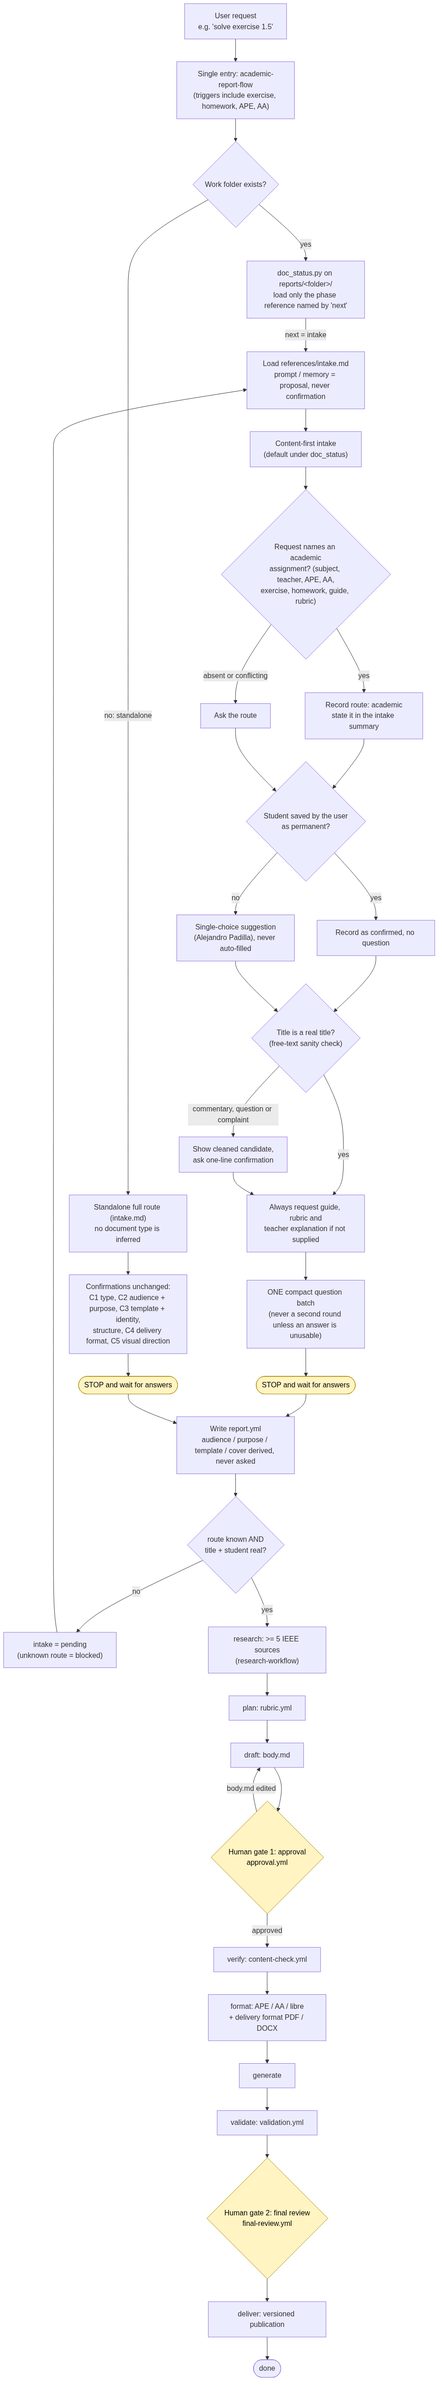
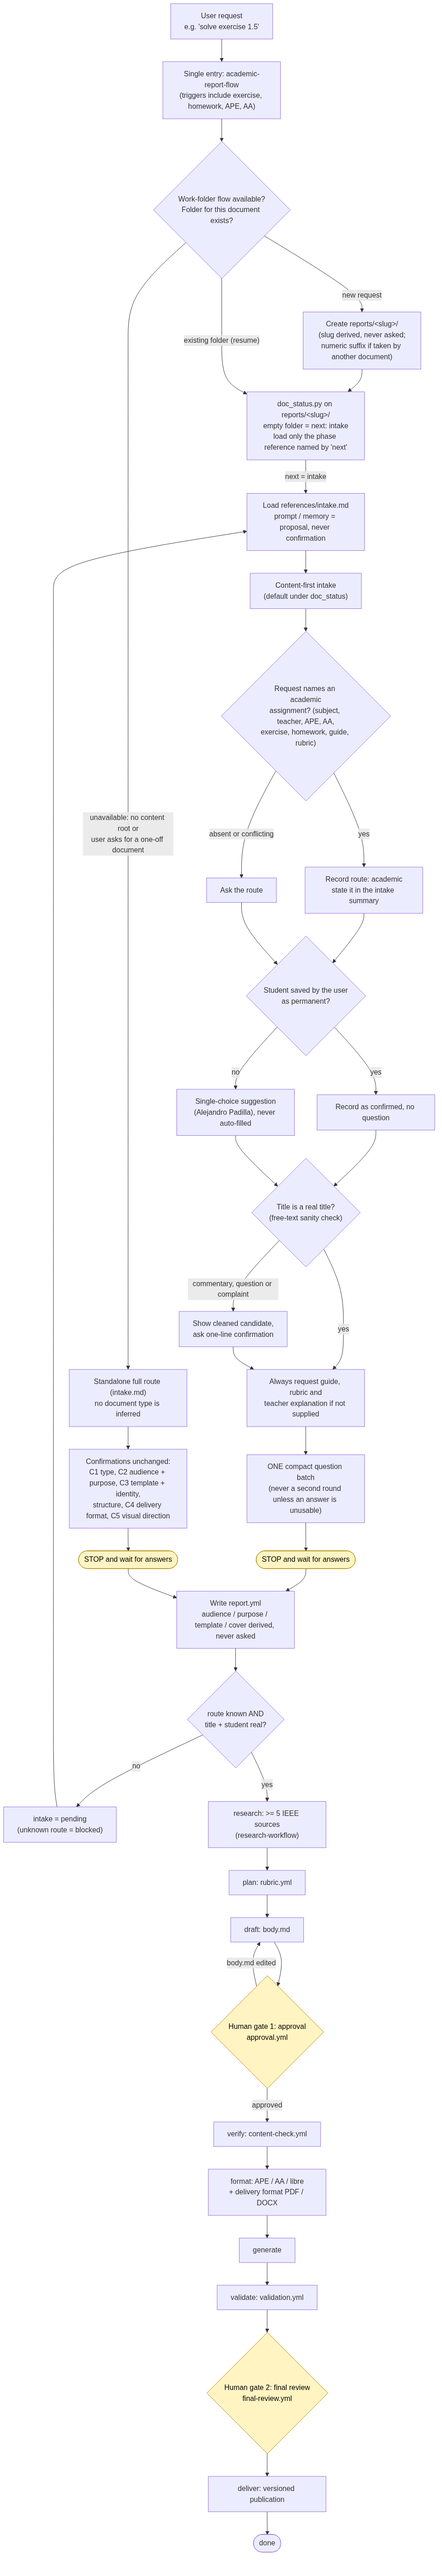
fix(skills): create the work folder for new requests so content-first intake applies

diff --git a/tests/skills/test_document_workflow_contract.py b/tests/skills/test_document_workflow_contract.py
@@ -845,6 +845,50 @@ def test_type_prohibition_names_the_content_first_route_exception() -> None:
     assert "content-first" in section and "references/intake.md" in section
 
 
+def _flat(path: Path) -> str:
+    return re.sub(r"\s+", " ", re.sub(r"[*`]", "", read(path))).lower()
+
+
+def test_new_request_creates_the_work_folder_before_doc_status() -> None:
+    """Task 7: a fresh request has no folder yet; the entry rule creates it first."""
+    skill = _flat(SKILL_MD)
+    entry = skill[skill.index("entry rule:") :].split(" loop:")[0]
+    assert re.search(r"new request[^;]*creates? the work folder[^;]*before[^;]*doc_status", entry), (
+        "SKILL.md entry rule must create the work folder for a new request before doc_status"
+    )
+    assert "reports/<slug>/" in entry
+    assert "existing" in entry and "resum" in entry, "an existing folder is resumed"
+    assert "without a work folder" not in skill, (
+        "SKILL.md must not route a missing work folder to the standalone full route"
+    )
+
+
+def test_standalone_full_route_is_limited_to_an_unavailable_work_folder_flow() -> None:
+    skill = _flat(SKILL_MD)
+    entry = skill[skill.index("entry rule:") :].split(" loop:")[0]
+    assert re.search(r"standalone full route.{0,60}applies only when the work-folder flow is (unavailable|not available)", entry), (
+        "the standalone full route applies only when the work-folder flow is unavailable"
+    )
+
+
+def test_routing_loop_and_intake_agree_on_the_new_request_entry() -> None:
+    routing = _flat(SKILL_ROOT / "references" / "routing-loop.md")
+    intake = _flat(SKILL_ROOT / "references" / "intake.md")
+    for name, text in (("routing-loop.md", routing), ("intake.md", intake)):
+        assert re.search(r"new request[^.]*creates? [^.]*reports/<slug>/", text), (
+            f"{name} must state that a new request creates reports/<slug>/ first"
+        )
+        assert "without a work folder" not in text and "no work folder" not in text, (
+            f"{name} must not route a missing work folder to the standalone full route"
+        )
+        assert re.search(r"unavailable|not available", text), (
+            f"{name} must limit the standalone route to an unavailable work-folder flow"
+        )
+    assert "never ask" in routing and "slug" in routing, "the slug is derived, never asked"
+    assert re.search(r"numeric suffix", routing + intake)
+    assert "folder in the intake summary" in intake
+
+
 def test_skill_body_stays_within_the_token_budget() -> None:
     body = read(SKILL_MD).split("---", 2)[2]
     assert len(body.split()) <= 1000

diff --git a/skills/academic-report-flow/SKILL.md b/skills/academic-report-flow/SKILL.md
@@ -12,11 +12,11 @@ metadata:
 
 Use for creating, adapting, reviewing, exporting, resuming, or advancing a structured academic, project, professional, business, technical, PDF, or DOCX document. PDF or DOCX is a format signal only. The user chooses the document type; never infer it from format, prompt, files, or history.
 
-Entry rule: when a work folder exists, run `doc_status.py` first on `$REPORT_CONTENT_ROOT/reports/<work-folder>/` and load only the current phase reference; without a work folder, run the standalone full route (`references/intake.md`), then the `next` token. Loop: `doc_status -> next -> reference -> delegate -> re-run`. See `references/routing-loop.md`.
+Entry rule: a new request creates the work folder `$REPORT_CONTENT_ROOT/reports/<slug>/` before `doc_status.py` (empty folder -> `next: intake`); an existing folder for the same document is resumed. Run `doc_status.py` first and load only the current phase reference. The standalone full route (`references/intake.md`) applies only when the work-folder flow is unavailable. Loop: `doc_status -> next -> reference -> delegate -> re-run`. See `references/routing-loop.md`.
 
 ### Mandatory Intake
 
-Load `references/intake.md` for the `intake` phase and on every standalone run. It owns the `report.yml` record (`route:`, `output:`, `template:`, top-level `cover:`, `metadata:` fields) and the content-first minimum. The Document Contract is a data record and does not authorize generation. The single confirmation gate is post-preview and lives in `academic-report-flow/references/approval.md`; intake never asks for approval.
+Load `references/intake.md` for the `intake` phase and on every standalone run (work-folder flow unavailable). It owns the `report.yml` record (`route:`, `output:`, `template:`, top-level `cover:`, `metadata:` fields) and the content-first minimum. The Document Contract is a data record and does not authorize generation. The single confirmation gate is post-preview and lives in `academic-report-flow/references/approval.md`; intake never asks for approval.
 
 ### Prohibition On Inferring Document Type
 

diff --git a/skills/academic-report-flow/references/intake.md b/skills/academic-report-flow/references/intake.md
@@ -3,8 +3,9 @@
 Executor: academic-report-flow
 Artifact: `reports/<wf>/report.yml`
 
-Load this reference when `doc_status` returns `next: intake`, and on every execution of
-the standalone full route (no work folder), before designing, structuring, drafting, or generating anything.
+Load this reference when `doc_status` returns `next: intake` (a new request creates
+`reports/<slug>/` first, so it starts here), and on every execution of the standalone
+full route (only when the work-folder flow is unavailable), before designing, structuring, drafting, or generating anything.
 This skill executes the phase itself. Intake turns a request into the one
 machine-readable record the whole route derives from: `reports/<wf>/report.yml`.
 
@@ -14,7 +15,10 @@ and treat nothing from them as confirmed data.
 
 ## Content-first intake
 
-Default when a work folder is driven by `doc_status`. Ask only the content-first
+Default for every new request: the request creates the work folder
+`reports/<slug>/` first (lowercase ASCII kebab-case from the subject and assignment,
+numeric suffix if the folder belongs to a different document, never asked) and
+`doc_status` drives it; state the folder in the intake summary. Ask only the content-first
 minimum: route, title, student, the teacher's guide and rubric material, teacher
 explanation.
 
@@ -74,7 +78,7 @@ explanation.
 
 ## Full-route confirmations
 
-Standalone run with no work folder. Stop after asking: do not pre-build, do not
+Standalone run, only when the work-folder flow is unavailable. Stop after asking: do not pre-build, do not
 draft "while waiting", do not produce a provisional structure.
 
 ### Confirmation 1 — Document type

diff --git a/odd/tasks/academic-report-flow.md b/odd/tasks/academic-report-flow.md
@@ -47,6 +47,11 @@ As-is flow: `docs/diagrams/intake-flow-current.mmd`.
 - [x] 6. (User decision) Install the unified skill into Claude/Codex/OpenCode/Pi runtimes and
       remove the two old skill dirs there.
 
+- [x] 7. Fix fresh-request entry gap (found in live test 2026-10-01): a new request with no work folder fell
+      into the standalone full route (asks document type), so content-first never applied. New request ->
+      create `reports/<slug>/` under the content root, then `doc_status` (empty folder -> `next: intake`).
+      Full route only when the work-folder flow is unavailable. Test-first; update to-be diagram.
+
 ## Evidence
 
 (commit ids recorded per task)
@@ -81,3 +86,4 @@ As-is flow: `docs/diagrams/intake-flow-current.mmd`.
   symlink moved to the trash (both were older than origin/main, no unique edits). Dotfiles untouched.
   `~/.pi/gentle-ai/skill-runtime/course-deliverables/academic-report-builder` left in place (no longer linked).
   Pi needs `/reload` to pick the change up.
+- Task 7: RED 3 failed / 1682 passed (new entry-rule contract tests); GREEN `tests/skills tools` 1685 passed, 0 failed. SKILL.md body 997 tokens. Commit: see git log (`fix(skills): create the work folder for new requests...`).

diff --git a/skills/academic-report-flow/references/routing-loop.md b/skills/academic-report-flow/references/routing-loop.md
@@ -2,6 +2,16 @@
 
 Loop: `doc_status -> next -> reference -> delegate -> re-run`.
 
+A new request for a document creates the work folder `$REPORT_CONTENT_ROOT/reports/<slug>/`
+first, so `doc_status` sees an empty folder (`next: intake`) and content-first intake
+applies. The slug is lowercase ASCII kebab-case derived from the subject and assignment
+named in the request (e.g. `metodos-numericos-ejercicio-1-5`); if that folder already
+exists and belongs to a different document, append a numeric suffix. Never ask the user
+for the slug; state the folder in the intake summary. An existing folder for the same
+document is resumed, never recreated. The standalone full route applies only when the
+work-folder flow is unavailable (no content root, or the user explicitly asks for a
+one-off document outside the reports flow).
+
 Run `"$REPORT_PYTHON" "$REPORT_AUTOMATION_ROOT/tools/doc_status.py"
 "$REPORT_CONTENT_ROOT/reports/<work-folder>/"` first; the returned `next` token owns
 the route. The selected interpreter (`REPORT_PYTHON`) and the roots are defined in

diff --git a/tests/skills/conversation-cases.md b/tests/skills/conversation-cases.md
@@ -57,13 +57,15 @@ Prompt: `Documentá esta API en DOCX.`
 
 ### Case 5 — content-first academic assignment (2026-10-01 incident)
 
-Setup: a work folder driven by `doc_status` at `next: intake`; the user has saved
-their student name as permanent.
+Setup: a brand-new request, so no work folder exists yet; the skill creates
+`reports/metodos-numericos-ejercicio-1-5/` first, then `doc_status` returns
+`next: intake`; the user has saved their student name as permanent.
 
 Prompt: `Resolvé el ejercicio 1.5 de Métodos Numéricos.`
 
 | Expectation | Pass condition |
 | --- | --- |
+| Creates the folder first | The work folder is created before `doc_status`, the slug is never asked and the folder is stated in the intake summary |
 | Derives the route | `route: academic` is recorded and stated, never asked |
 | Skips the student question | The saved permanent student is recorded as confirmed |
 | Confirms the title | A commentary-style title gets a cleaned candidate and a one-line confirmation |
